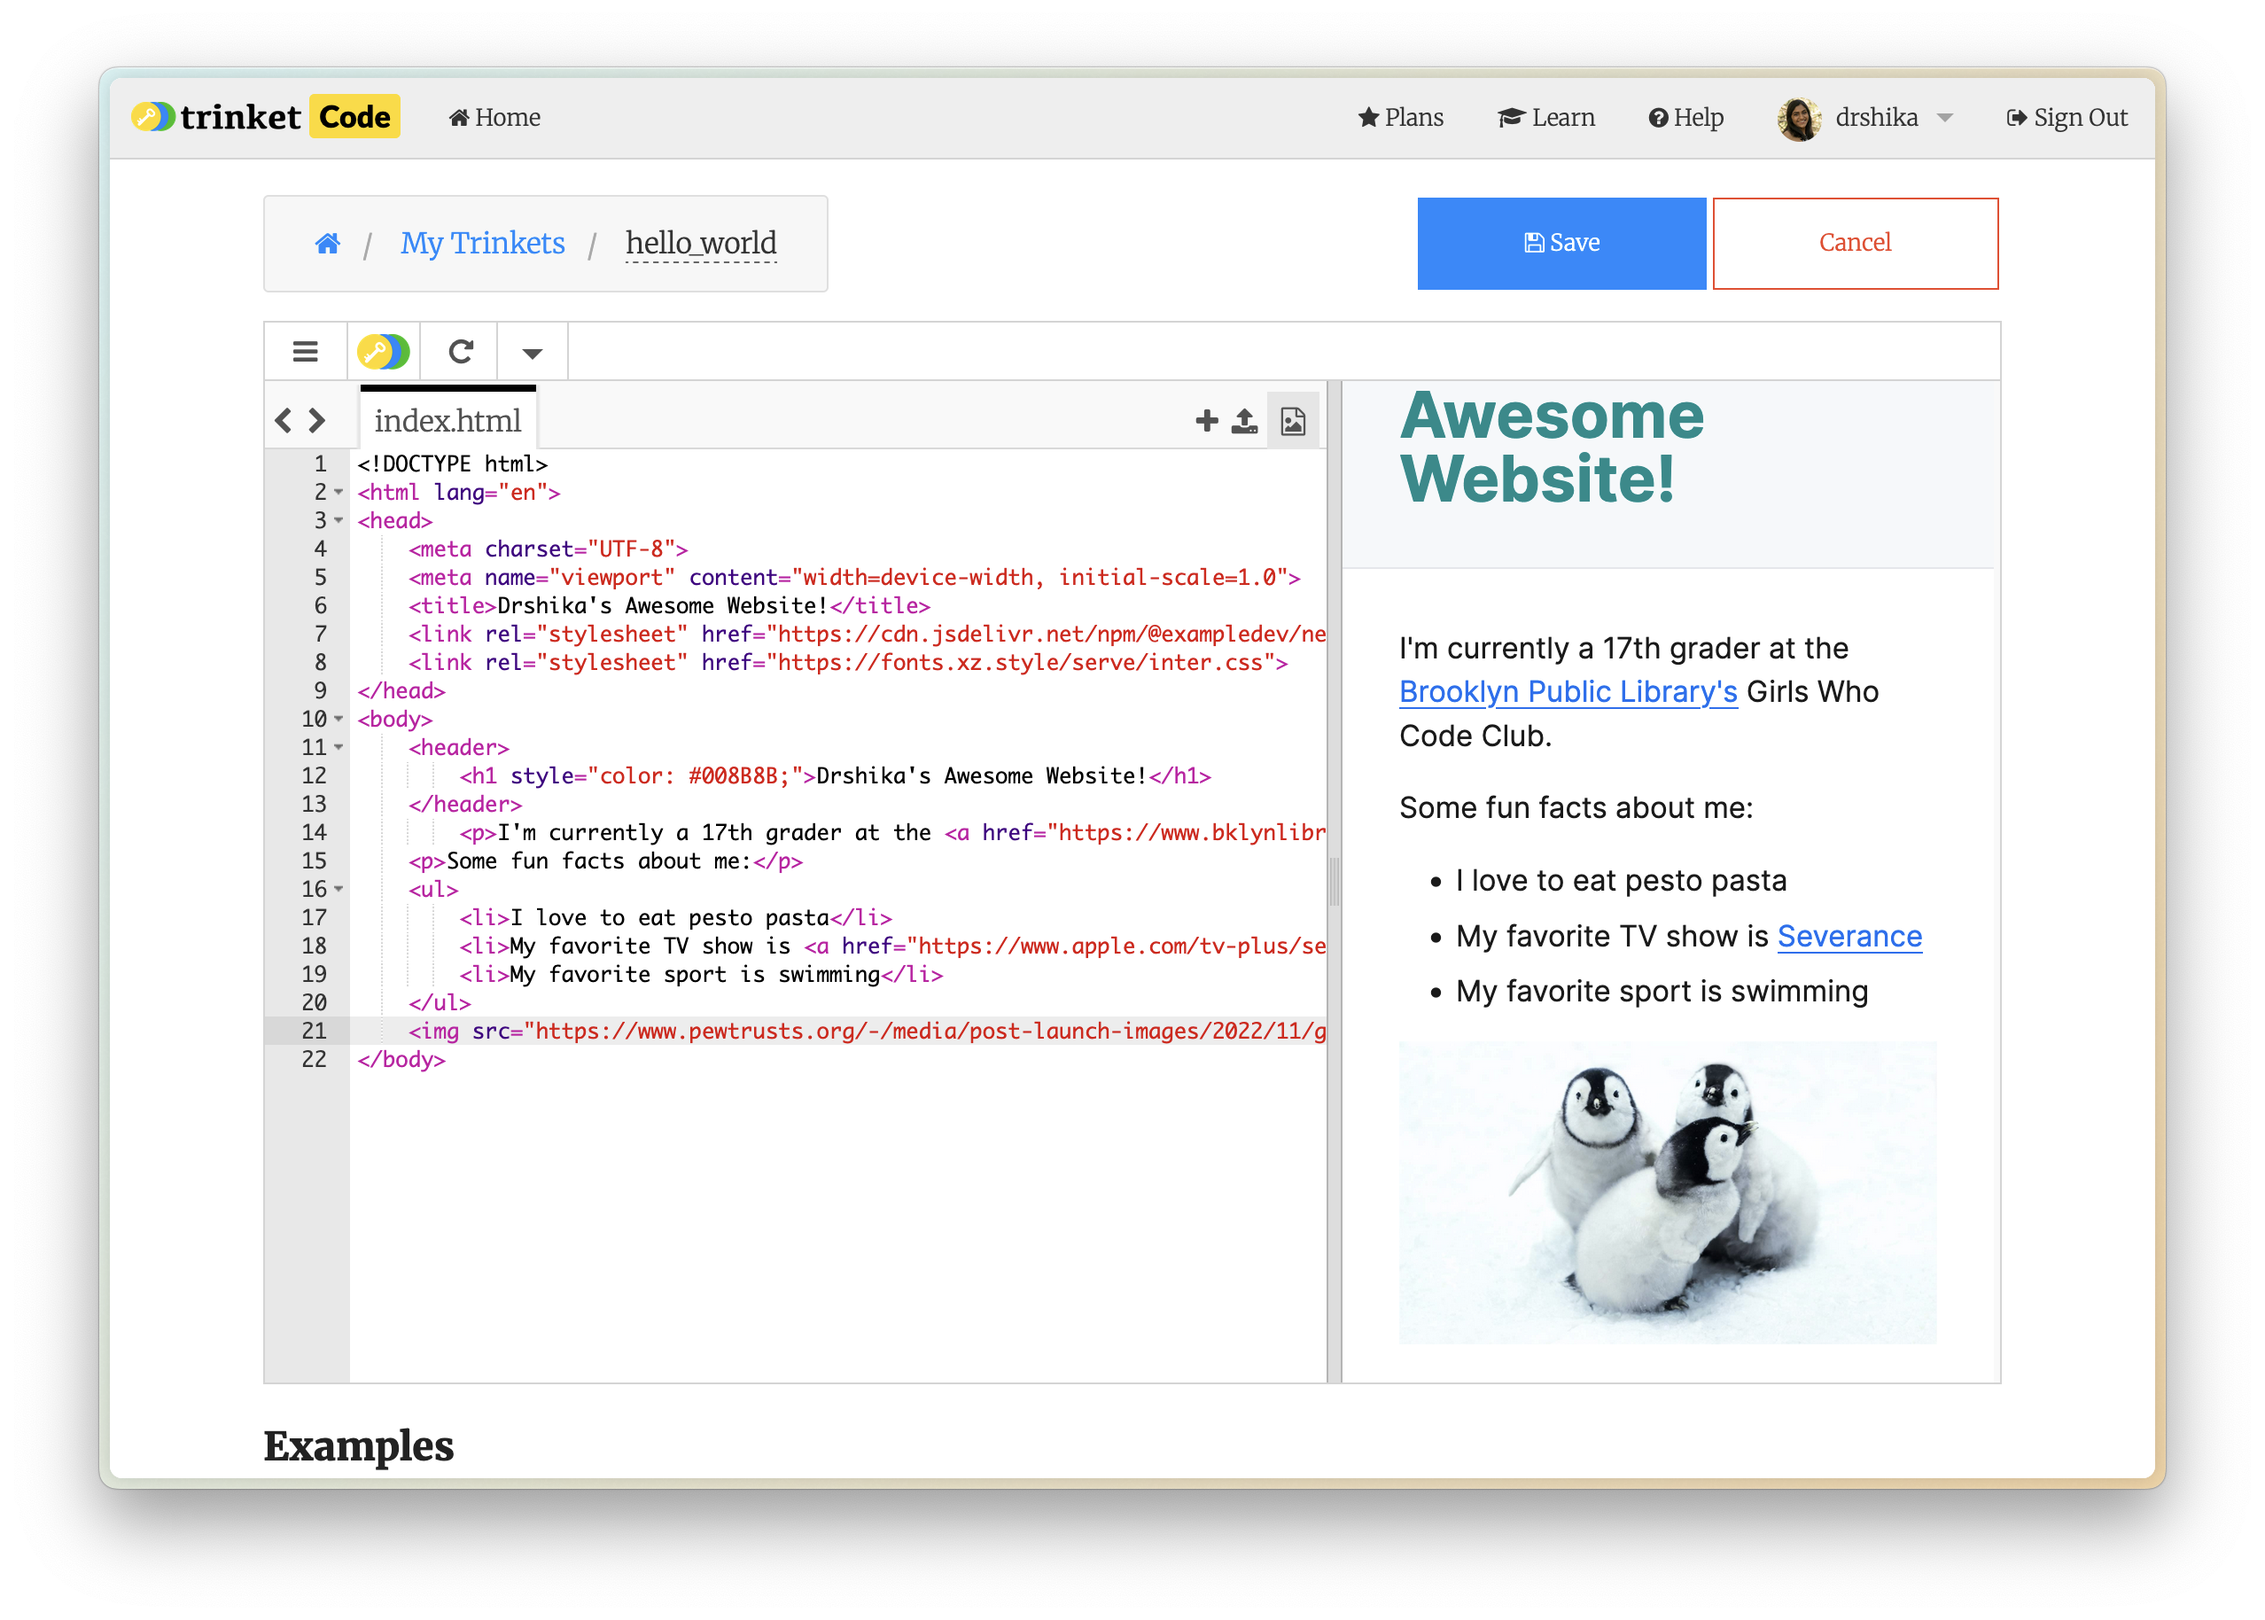
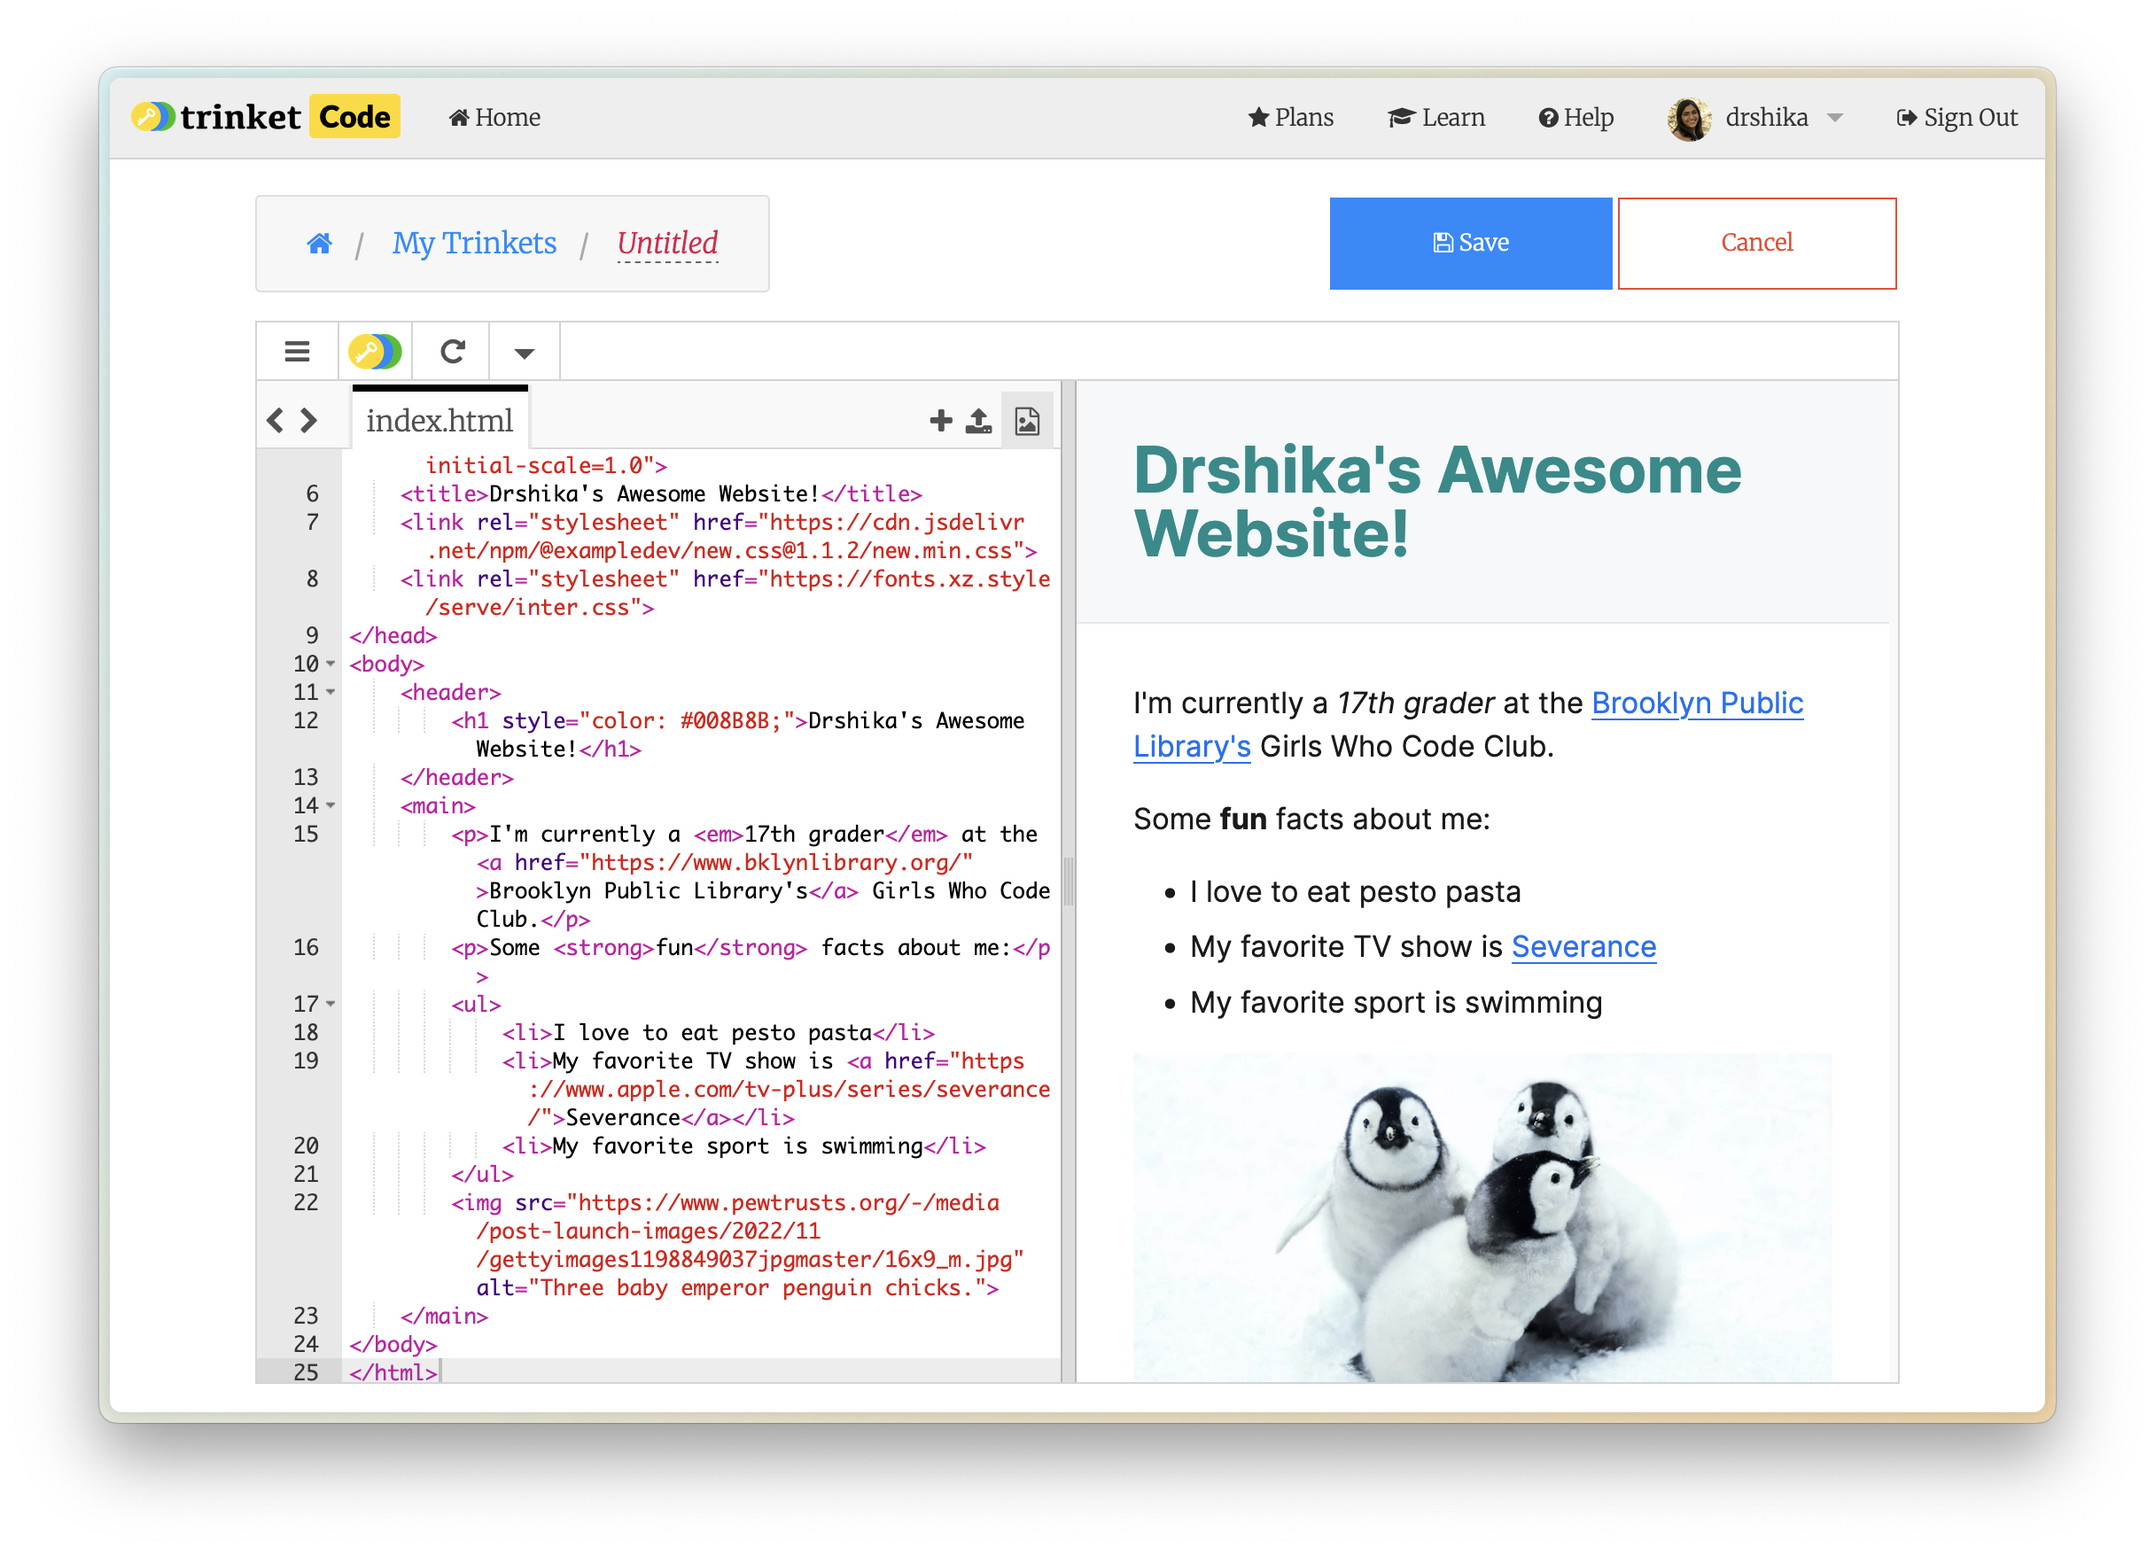
v1

Changed region(s): [[0.0312, 0.0308, 0.9688, 0.9236], [0.125, 0.5849, 0.1875, 0.6773]]

diff --git a/final_code/index.html b/final_code/index.html
@@ -4,25 +4,28 @@
     <meta charset="UTF-8">
     <meta name="viewport" content="width=device-width, initial-scale=1.0">
     <title>Drshika's Awesome Website!</title>
-    <link rel="stylesheet" href="https://fonts.xz.style/serve/inter.css">
     <link rel="stylesheet" href="https://cdn.jsdelivr.net/npm/@exampledev/new.css@1.1.2/new.min.css">
+    <link rel="stylesheet" href="https://fonts.xz.style/serve/inter.css">
 </head>
 <body>
     <header>
         <h1 style="color: #008B8B;">Drshika's Awesome Website!</h1>
+        <!-- Add this navigation section -->
         <nav>
             <a href="index.html">Home</a>
             <a href="projects.html">Projects</a>
         </nav>
     </header>
-    <p>I'm currently a 17th grader at the <a href="https://www.bklynlibrary.org/">Brooklyn Public Library's</a> Girls Who Code Club.</p>
-    <p>Some fun facts about me:</p>
-    <ul>
-        <li>I love to eat pesto pasta</li>
-        <li>My favorite TV show is <a href="https://www.apple.com/tv-plus/series/severance/">severance</a></li>
-        <li>My favorite sport is swimming</li>
-    </ul>
-    <button onclick="document.getElementById('animal').style.display='block'">Click me for cute suprise!</button>
-    <img id="animal" src="https://www.pewtrusts.org/-/media/post-launch-images/2022/11/gettyimages1198849037jpgmaster/16x9_m.jpg" alt="Three baby emperor penguin chicks" style="display:none;">
+    <main>
+        <p>I'm currently a <em>17th grader</em> at the <a href="https://www.bklynlibrary.org/">Brooklyn Public Library's</a> Girls Who Code Club.</p>
+        <p>Some <strong>fun</strong> facts about me:</p>
+        <ul>
+            <li>I love to eat pesto pasta</li>
+            <li>My favorite TV show is <a href="https://www.apple.com/tv-plus/series/severance/">Severance</a></li>
+            <li>My favorite sport is swimming</li>
+        </ul>
+        <button onclick="document.getElementById('animal').style.display='block'">Click me for cute suprise!</button>
+        <img id="animal" src="https://www.pewtrusts.org/-/media/post-launch-images/2022/11/gettyimages1198849037jpgmaster/16x9_m.jpg" alt="Three baby emperor penguin chicks" style="display:none;">
+    </main>
 </body>
 </html>

diff --git a/final_code/projects.html b/final_code/projects.html
@@ -15,18 +15,21 @@
             <a href="projects.html">Projects</a>
         </nav>
     </header>
-    <table>
-        <tr>
-            <th>Project</th>
-            <th>Description</th>
-        </tr>
-        <tr>
-            <td>Girls Who Code Website</td>
-            <td>A website to showcase the projects we will build together!</td>
-        </tr>
-        <tr>
-            <td>Recipes Website</td>
-            <td>A collection of my favorite recipes!</td>
-    </table>        
+    <main>
+        <table>
+            <tr>
+                <th>Project</th>    
+                <th>Description</th>
+            </tr>
+            <tr>
+                <td>Girls Who Code Website</td>
+                <td>A website to showcase the projects we will build together!</td>
+            </tr>
+            <tr>
+                <td>Recipes Website</td>
+                <td>A collection of my favorite recipes!</td>
+            </tr>
+        </table>
+    </main>
 </body>
 </html>

diff --git a/README.md b/README.md
@@ -152,7 +152,7 @@ here is the code after adding fun facts and info:
 </head>
 <body>
     <header>
-        <h1>Drshika's Awesome Website!</h1>
+        <h1 style="color: #008B8B;">Drshika's Awesome Website!</h1>
     </header>
     <main>
         <p>I'm currently a <em>17th grader</em> at the <a href="https://www.bklynlibrary.org/">Brooklyn Public Library's</a> Girls Who Code Club.</p>
@@ -193,7 +193,7 @@ And here's our code so far:
 </head>
 <body>
     <header>
-        <h1>Drshika's Awesome Website!</h1>
+        <h1 style="color: #008B8B;">Drshika's Awesome Website!</h1>
     </header>
     <main>
         <p>I'm currently a <em>17th grader</em> at the <a href="https://www.bklynlibrary.org/">Brooklyn Public Library's</a> Girls Who Code Club.</p>
@@ -256,7 +256,7 @@ Now let's add a link in the navigation bar to the projects page from the index.h
 </head>
 <body>
     <header>
-        <h1>Drshika's Awesome Website!</h1>
+        <h1 style="color: #008B8B;">Drshika's Awesome Website!</h1>
         <!-- Add this navigation section -->
         <nav>
             <a href="index.html">Home</a>
@@ -353,7 +353,7 @@ HTML websites are static, meaning they don't have any interactivity. If we want 
 </head>
 <body>
     <header>
-        <h1>Drshika's Awesome Website!</h1>
+        <h1 style="color: #008B8B;">Drshika's Awesome Website!</h1>
         <!-- Add this navigation section -->
         <nav>
             <a href="index.html">Home</a>
